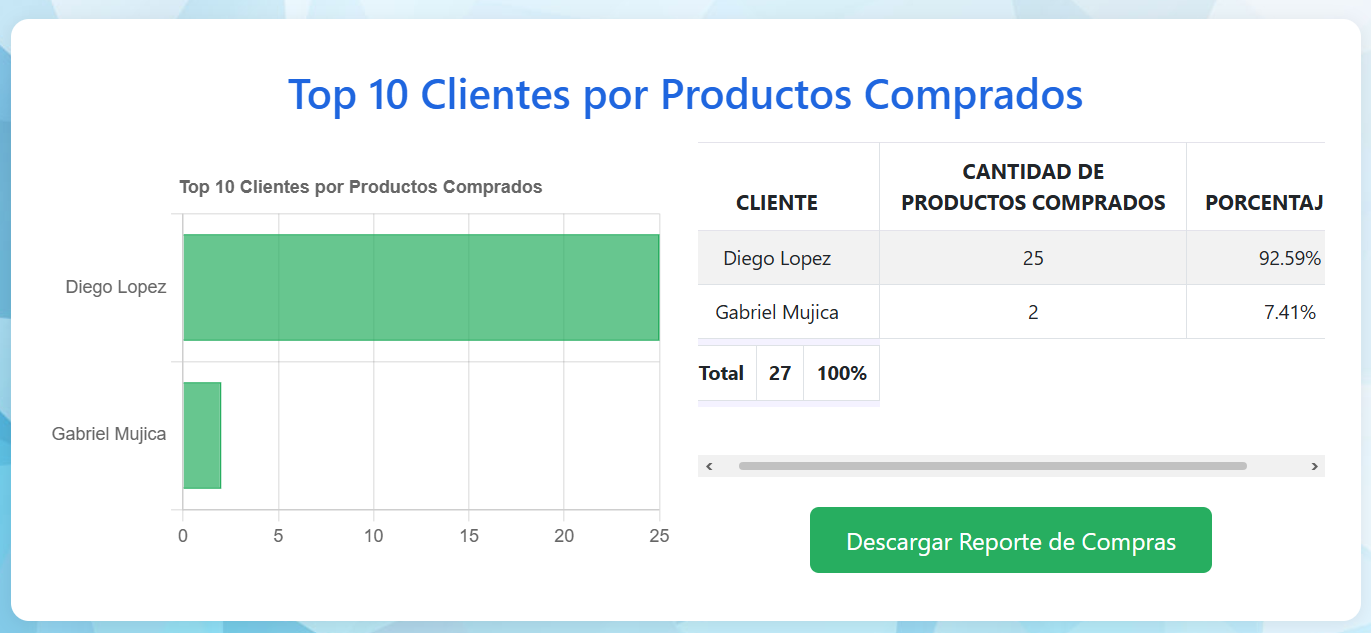
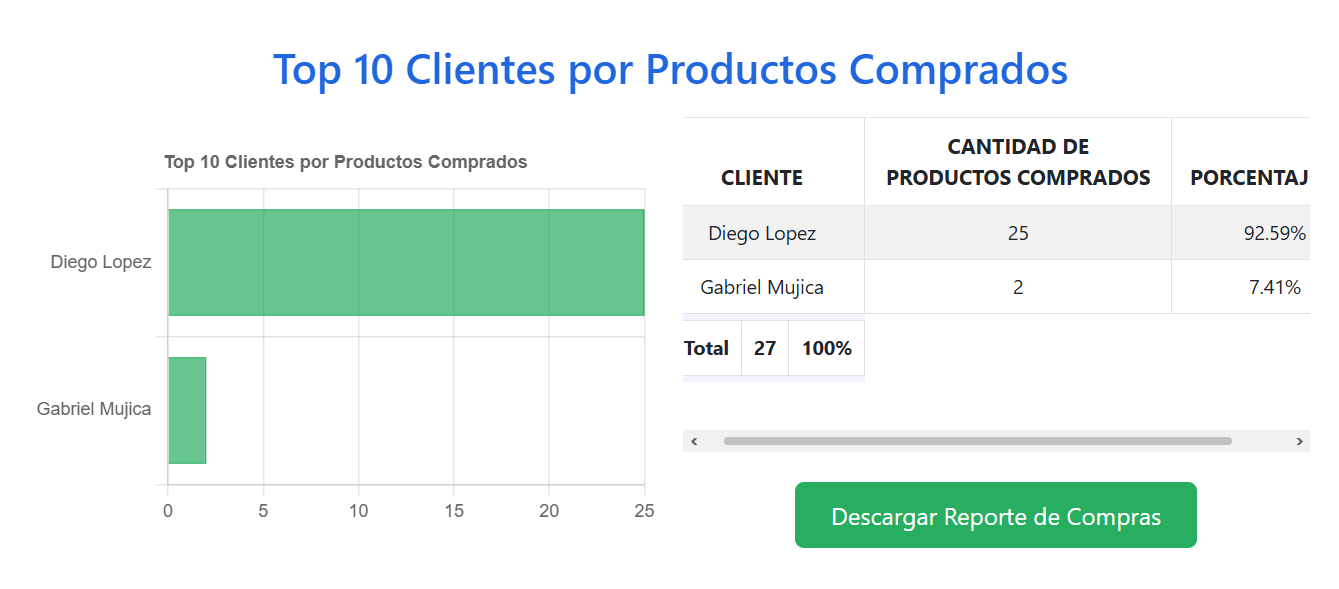
...

diff --git a/assets/public/casalai-manual/index-new.php b/assets/public/casalai-manual/index-new.php
@@ -2989,13 +2989,12 @@ $modulos = [
                                         </ul>
                                     </div>
                                 </div>
-                                                                <div class="row">
+                                <div class="row">
                                     <div>
                                         <h6 class="text-success">Vista de Clientes</h6>
                                         <?= renderImagen('cliente', 'vista.png') ?>
                                     </div>
                                 </div>
-                                
                                 
                                 <!-- Pasos detallados para registrar cliente -->
                                 <?php if($puedeAccion('Clientes', 'incluir')):  ?>
@@ -3005,6 +3004,12 @@ $modulos = [
                                     </div>
                                     <div class="card-body">
                                         <div class="row">
+                                            <div>
+                                                <h6 class="text-success">Formulario de Nuevo Cliente</h6>
+                                                <div class="text-center">
+                                                    <?= renderImagen('cliente', 'incluir-modal.png') ?>
+                                                </div>
+                                            </div>
                                             <div class="col-md-7">
                                                 <ol>
                                                     <li class="mb-2"><strong>Paso 1:</strong> Haga clic en el botón <strong>"+"</strong> (color verde) en la esquina superior derecha.</li>
@@ -3038,25 +3043,26 @@ $modulos = [
                                                     <i class="bi bi-info-circle me-2"></i>
                                                     <strong>Botón Limpiar:</strong><br> Resetea el formulario
                                                 </div>
-                                            </div><div>
-                                                <h6 class="text-success">Formulario de Registro</h6>
-                                                <div class="text-center">
-                                                    <?= renderImagen('cliente', 'incluir-modal.png') ?>
-                                                </div>
-                                        </div>
+                                            </div>
                                         </div>
                                     </div>
                                 </div>
                                 <?php endif; ?>
                                 
                                 <!-- Pasos para modificar cliente -->
-                                <?php if($puedeAccion('Clientes', 'modificar')):  ?>
+                                <?php if($puedeAccion('Clientes', 'modificar')): ?>
                                 <div class="card mt-3">
                                     <div class="card-header bg-info text-white">
                                         <h6 class="mb-0">Pasos para Modificar Cliente</h6>
                                     </div>
                                     <div class="card-body">
                                         <div class="row">
+                                            <div>
+                                                <h6 class="text-success">Formulario para Modificar Cliente</h6>
+                                                <div class="text-center">
+                                                    <?= renderImagen('cliente', 'modificar-modal.png') ?>
+                                                </div>
+                                            </div>
                                             <div class="col-md-7">
                                                 <ol>
                                                     <li class="mb-2"><strong>Paso 1:</strong> Localice al cliente en la tabla.</li>
@@ -3074,12 +3080,7 @@ $modulos = [
                                                     <i class="bi bi-info-circle me-2"></i>
                                                     <strong>Tip:</strong> Los cambios se reflejan inmediatamente
                                                 </div>
-                                            </div><div>
-                                                <h6 class="text-success">Formulario de Modificacion</h6>
-                                                <div class="text-center">
-                                                    <?= renderImagen('cliente', 'modificar-modal.png') ?>
-                                                </div>
-                                        </div>
+                                            </div>
                                         </div>
                                     </div>
                                 </div>
@@ -3109,11 +3110,6 @@ $modulos = [
                                                     <i class="bi bi-exclamation-triangle-fill me-2"></i>
                                                     <strong>¡Cuidado!</strong><br> Esta acción no se puede deshacer
                                                 </div>
-                                            </div><div>
-                                                <h6 class="text-success">Confirmacion para Eliminacion</h6>
-                                                <div class="text-center">
-                                                    <?= renderImagen('cliente', 'eliminar-modal.png') ?>
-                                                </div>
                                             </div>
                                         </div>
                                     </div>
@@ -3128,6 +3124,12 @@ $modulos = [
                                     </div>
                                     <div class="card-body">
                                         <div class="row">
+                                            <div>
+                                                <h6 class="text-success">Reporte de Top 10 Clientes por Productos Comprados</h6>
+                                                <div class="text-center">
+                                                    <?= renderImagen('cliente', 'reporte1.png') ?>
+                                                </div>
+                                            </div>
                                             <div class="col-md-7">
                                                 <ol>
                                                     <li class="mb-2"><strong>Paso 1:</strong> Haga clic en el botón de la <strong>gráfica</strong> (color azul) en la esquina superior derecha.</li>
@@ -3145,11 +3147,6 @@ $modulos = [
                                                     <strong>Reporte PDF:</strong> Descarga automática
                                                 </div>
                                             </div>
-                                            <div>
-                                                <h6 class="text-success">Reporte de Top 10 Clientes por Productos Comprados</h6>
-                                                <div class="text-center">
-                                                    <?= renderImagen('cliente', 'reporte1.png') ?>
-                                                </div>
                                         </div>
                                     </div>
                                 </div>
@@ -3350,7 +3347,7 @@ $modulos = [
                                         </ul>
                                     </div>
                                 </div>
-                                                                <div class="row">
+                                <div class="row">
                                     <div>
                                         <h6 class="text-success">Vista de Pagos</h6>
                                         <?= renderImagen('pago', 'vista.png') ?>

diff --git a/Vista/cliente.php b/Vista/cliente.php
@@ -60,11 +60,8 @@ aria-labelledby="registrarClienteModalLabel" aria-hidden="true">
                     </div>
                 </div>
                 <div class="modal-footer">
-                    <button class="boton-form" type="submit">Registrar</button>
-                    <button class="boton-reset" type="reset">Limpiar</button>
-                    <div class="mt-2" style="font-size: 12px; color: #666; text-align: center;">
-                        <strong>Paso 1:</strong> Complete todos los campos obligatorios (*) → <strong>Paso 2:</strong> Revise la información → <strong>Paso 3:</strong> Presione "Registrar"
-                    </div>
+                    <button class="boton-form btn-primary" type="submit">Registrar</button>
+                    <button class="boton-reset btn-primary" type="reset">Limpiar</button>
                 </div>
             </form>
         </div>
@@ -236,9 +233,6 @@ aria-labelledby="modificar_clientes_modal_label" aria-hidden="true">
                 </div>
                 <div class="modal-footer">
                     <button type="submit" class="btn btn-primary">Modificar</button>
-                    <div class="mt-2" style="font-size: 12px; color: #666; text-align: center;">
-                        <strong>Nota:</strong> Los cambios se reflejarán inmediatamente en la tabla después de guardar
-                    </div>
                 </div>
             </form>
         </div>
